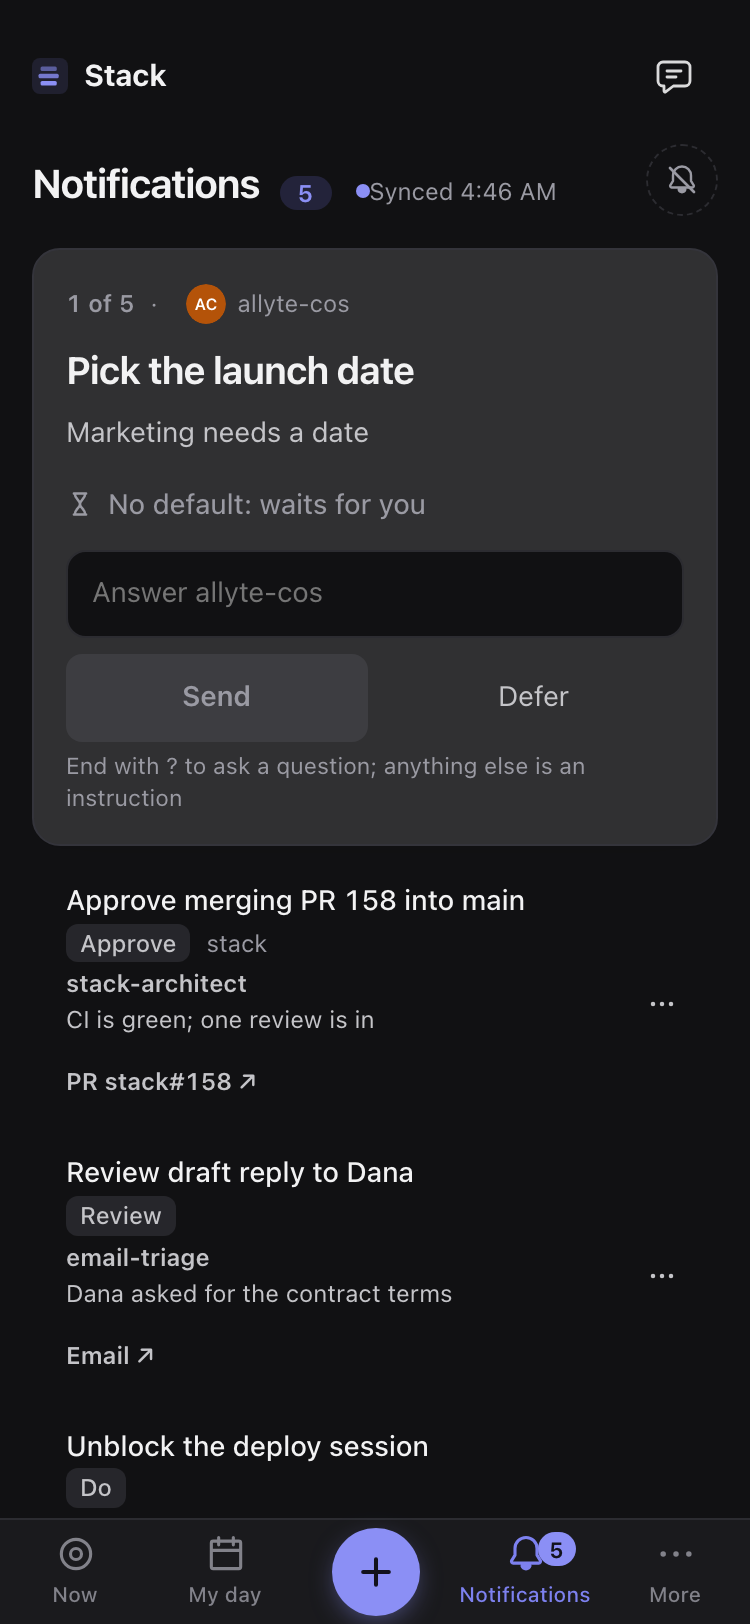
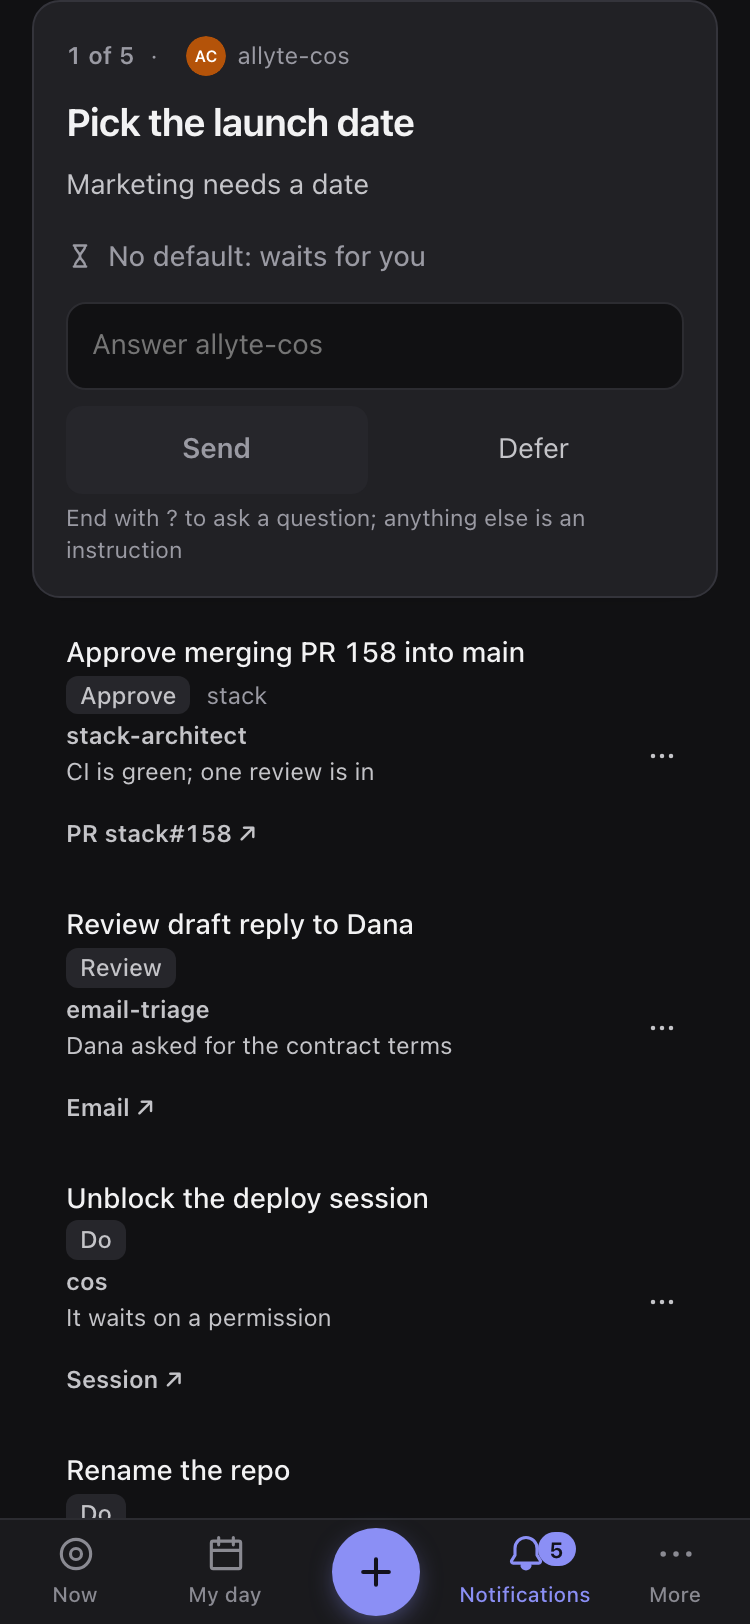
fix(notifications): Keep Ask for context off answer asks; name mail links exactly
Review round 1. An answer ask writes its reply under the task, so it
has no Ask for context. The selected notification has the action too.
Only mail web apps read as Email. A click on the who and why line
selects the row.

diff --git a/web/src/AsksView.tsx b/web/src/AsksView.tsx
@@ -6,7 +6,7 @@
 import { Avatar } from './AgentAvatar';
 import { nameBeside } from './avatar';
 import { useEffect, useRef, useState } from 'preact/hooks';
-import { actionsFor, CONTEXT_ASK, deadline, freshness, ifSilent, loudRow, rowActions, splitTop, type Action, type AskItem, type RowAction } from './asks';
+import { actionsFor, CONTEXT_ASK, needsContext, deadline, freshness, ifSilent, loudRow, rowActions, splitTop, type Action, type AskItem, type RowAction } from './asks';
 import { ActionMenu } from './ui/ActionMenu';
 import { SourceLink } from './ui/SourceLink';
 import { blockedHelp } from './notify';
@@ -85,11 +85,11 @@ function Row({ a, n, now, fresh, leaving, loud, onPick, onAct, onOpenTask }: { a
         {fresh && <span class="new" aria-label="New">New</span>}
         <span class="row-meta"><span class="verb">{verb ?? ''}</span>{a.by ? <DeadlineChip by={a.by} now={now} quiet={!loud} /> : <span class="dl empty" aria-hidden="true" />}<span class="proj">{a.project ?? ''}</span></span>
       </button>
-      <p class="ask-ctx">
+      <p class="ask-ctx" onClick={(e) => { if (!(e.target as HTMLElement).closest('a, button')) onPick(); }}>
         <span class="ask-who">{a.from}</span>
         <span class={`ask-ctx-why${a.why ? '' : ' none'}`}>{a.why ? <Md text={a.why} project={a.project} links={false} /> : 'No reason given'}</span>
         {a.source !== 'task' && <SourceLink href={a.link} />}
-        {taskRef && onOpenTask && <button type="button" class="ui-source ask-task-link" onClick={() => onOpenTask(taskRef)}>Task<span aria-hidden="true"> ↗</span></button>}
+        {taskRef && onOpenTask && <button type="button" class="ui-source ask-task-link" onClick={() => onOpenTask(taskRef)}>Task</button>}
       </p>
       {onAct && <ActionMenu name={`Actions for ${a.ask}`} items={rowActions(a).map((x) => ({ id: x.id, label: x.label, ...(x.action?.open && a.source !== 'task' && a.link ? { href: a.link } : { onSelect: () => onAct(x) }) }))} />}
     </li>
@@ -160,6 +160,8 @@ function Card({ a, n, total, asks, run, talk }: { a: AskItem; n: number; total: 
               <span class="grow" />
               <button type="button" class="btn quiet" onClick={() => asks.setPanel('defer')}>Defer<kbd aria-hidden="true">z</kbd></button>
               <button type="button" class="btn quiet" onClick={() => asks.setPanel(asks.panel === 'reply' ? 'none' : 'reply')} aria-expanded={asks.panel === 'reply'}>Reply<kbd aria-hidden="true">r</kbd></button>
+              {/* The selected notification has the row's actions too. @req FR:notifications/list.rowactions */}
+              {needsContext(a) && <button type="button" class="btn quiet" onClick={() => void asks.reply(a, CONTEXT_ASK)}>Ask for context</button>}
             </div>
           )
         )}

diff --git a/web/src/asks.ts b/web/src/asks.ts
@@ -120,7 +120,13 @@ export function actionsFor(a: Pick<AskItem, 'kind' | 'recommend' | 'options' | '
 export const actionable = (a: Pick<AskItem, 'kind' | 'recommend' | 'options' | 'link' | 'source'>): boolean => a.kind === 'answer' || actionsFor(a).length > 0;
 
 /** What `Ask for context` sends to the sender. It ends in `?`, so it goes as a question. @req FR:notifications/list.rowactions */
-export const CONTEXT_ASK = 'What is the context? Say why, link the source, and say what you need from me?';
+export const CONTEXT_ASK = 'What is the context: why is this needed, where is the source, and what do you need from me?';
+/**
+ * True when an ask gives no reason, no link and no detail, so the owner can only ask the sender for context.
+ * Never for a 🙋 row (the task is its context) or an `answer` ask (its reply is written under the task, not sent as a question).
+ * @req FR:notifications/list.rowactions
+ */
+export const needsContext = (a: Pick<AskItem, 'kind' | 'link' | 'source' | 'why' | 'detail'>): boolean => !a.why && !a.link && !a.detail && a.source !== 'task' && a.kind !== 'answer';
 /** One item of a row's actions menu: an action of the kind, a panel to open, or the context question. */
 export interface RowAction { id: string; label: string; action?: Action; panel?: 'reply' | 'defer'; context?: boolean }
 
@@ -132,7 +138,7 @@ export interface RowAction { id: string; label: string; action?: Action; panel?:
 export function rowActions(a: Pick<AskItem, 'kind' | 'recommend' | 'options' | 'link' | 'source' | 'why' | 'detail'>): RowAction[] {
   const out: RowAction[] = actionsFor(a).map((x) => (x.reply ? { id: x.id, label: x.label, panel: 'reply' as const } : { id: x.id, label: x.label, action: x }));
   out.push({ id: 'reply', label: a.kind === 'answer' ? 'Answer' : 'Reply', panel: 'reply' }, { id: 'defer', label: 'Defer', panel: 'defer' });
-  if (!a.why && !a.link && !a.detail && a.source !== 'task') out.push({ id: 'context', label: 'Ask for context', context: true });
+  if (needsContext(a)) out.push({ id: 'context', label: 'Ask for context', context: true });
   return out;
 }
 

diff --git a/web/e2e/notifications.spec.ts b/web/e2e/notifications.spec.ts
@@ -83,7 +83,7 @@ test.describe('Notifications: context and actions on every row', () => {
     { ...ask('top', 'Pick the launch date', 90), kind: 'answer', from: 'allyte-cos', why: 'Marketing needs a date' },
     { ...ask('pr', 'Approve merging PR 158 into main', 80), kind: 'approve', from: 'stack-architect', project: 'stack', why: 'CI is green; one review is in', link: 'https://github.com/Xerilium/stack/pull/158' },
     { ...ask('mail', 'Review draft reply to Dana', 70), kind: 'review', from: 'email-triage', why: 'Dana asked for the contract terms', link: 'https://outlook.office.com/mail/id/1' },
-    { ...ask('sess', 'Unblock the deploy session', 60), from: 'cos', why: 'It waits on a permission', link: 'claude://claude.ai/epitaxy/s1' },
+    { ...ask('sess', 'Unblock the deploy session', 60), from: 'cos', why: 'It waits on a permission', link: 'https://claude.ai/code/session_1' },
     { ...ask('bare', 'Rename the repo', 50) },
     { ...ask('dead', 'Pick one', 40), kind: 'decide' }, // no options: nothing to do
   ];
@@ -104,6 +104,11 @@ test.describe('Notifications: context and actions on every row', () => {
     await expect(row(page, 'sess').getByRole('link', { name: /Session/ })).toBeVisible();
     await expect(row(page, 'bare').locator('.ask-ctx-why')).toHaveText('No reason given');
     await expect(row(page, 'bare').locator('.ui-source')).toHaveCount(0);
+    // the selected notification (the details) has Ask for context too, when it has none; an answer ask never has it
+    await expect(page.locator('.ask-card').getByRole('button', { name: 'Ask for context' })).toHaveCount(0);
+    await row(page, 'bare').locator('.ask-ctx-why').click();
+    await expect(row(page, 'bare').locator('.ask-card').getByRole('button', { name: 'Ask for context' })).toBeVisible();
+    await row(page, 'top').locator('.ask-row').click();
     expect(await page.evaluate(() => document.documentElement.scrollWidth <= window.innerWidth)).toBe(true);
     expect((await axe(page)).violations).toEqual([]);
     for (const scheme of ['light', 'dark'] as const) {

diff --git a/web/src/ui/SourceLink.tsx b/web/src/ui/SourceLink.tsx
@@ -7,7 +7,8 @@ import './ui.css';
 export type SourceKind = 'pr' | 'issue' | 'session' | 'email' | 'site';
 export interface Source { kind: SourceKind; /** The words on the link, for example `PR stack#158`. */ label: string }
 
-const MAIL = /(^|\.)(outlook|office|office365|live|gmail|mail\.google|proton|fastmail)\./;
+/** Mail web apps only: a suite's other sites (office.com, onedrive.live.com) are not mail. */
+const MAIL = /^(outlook\.(office|office365|live)\.com|mail\.google\.com|mail\.proton\.me|app\.fastmail\.com)$/;
 
 /** Name a link by its source. Returns null for text that is not a link. Pure. */
 export function sourceOf(href: string | undefined): Source | null {
@@ -18,7 +19,7 @@ export function sourceOf(href: string | undefined): Source | null {
   if (u.protocol !== 'https:' && u.protocol !== 'http:') return null;
   const gh = u.hostname === 'github.com' ? /^\/[^/]+\/([^/]+)\/(pull|issues)\/(\d+)/.exec(u.pathname) : null;
   if (gh) return gh[2] === 'pull' ? { kind: 'pr', label: `PR ${gh[1]}#${gh[3]}` } : { kind: 'issue', label: `Issue ${gh[1]}#${gh[3]}` };
-  if (MAIL.test(`${u.hostname}.`)) return { kind: 'email', label: 'Email' };
+  if (MAIL.test(u.hostname)) return { kind: 'email', label: 'Email' };
   return { kind: 'site', label: u.hostname.replace(/^www\./, '') };
 }
 

diff --git a/web/src/asks.css b/web/src/asks.css
@@ -187,11 +187,12 @@ a.btn.primary { color: #fff; }
 .ask-li-row > .ask-row { grid-area: row; min-height: 36px; padding-bottom: 2px; }
 .ask-li-row > .ui-more { grid-area: menu; margin-right: 10px; }
 .ask-li-row:has(.ui-menu) { z-index: 30; }
-.ask-ctx { grid-area: ctx; margin: 0; padding: 0 22px 8px; display: flex; flex-wrap: wrap; align-items: center; gap: 0 10px; min-width: 0; font-size: 12px; line-height: 18px; color: var(--ink2); }
+.ask-ctx { grid-area: ctx; cursor: pointer; margin: 0; padding: 0 22px 8px; display: flex; flex-wrap: wrap; align-items: center; gap: 0 10px; min-width: 0; font-size: 12px; line-height: 18px; color: var(--ink2); }
 .ask-who { flex: none; font-weight: 600; }
 .ask-ctx-why { flex: 0 1 auto; min-width: 0; overflow: hidden; text-overflow: ellipsis; white-space: nowrap; }
 .ask-ctx-why.none { color: var(--muted); }
 .ask-task-link { border: 0; background: none; padding: 0; cursor: pointer; font-family: inherit; }
+@media (hover: none) { .ask-li-row > .ask-row { min-height: 44px; } }
 @media (max-width: 719px) {
   .ask-li-row > .ask-row { min-height: 44px; }
   .ask-ctx { padding: 0 17px 6px; }

diff --git a/web/tests/ui-kit.test.tsx b/web/tests/ui-kit.test.tsx
@@ -40,6 +40,8 @@ describe('SourceLink', () => {
     expect(sourceOf('https://claude.ai/code/session_1')).toEqual({ kind: 'session', label: 'Session' });
     expect(sourceOf('https://outlook.office.com/mail/id/1')).toEqual({ kind: 'email', label: 'Email' });
     expect(sourceOf('mailto:a@example.test')).toEqual({ kind: 'email', label: 'Email' });
+    expect(sourceOf('https://mail.google.com/mail/u/0/#inbox/1')).toEqual({ kind: 'email', label: 'Email' });
+    for (const [href, site] of [['https://www.office.com/launch', 'office.com'], ['https://onedrive.live.com/x', 'onedrive.live.com'], ['https://drive.proton.me/u/0', 'drive.proton.me']]) expect(sourceOf(href)).toEqual({ kind: 'site', label: site });
     expect(sourceOf('https://www.npmjs.com/settings')).toEqual({ kind: 'site', label: 'npmjs.com' });
     expect(sourceOf('https://github.com/Xerilium/stack')).toEqual({ kind: 'site', label: 'github.com' });
     for (const bad of [undefined, '', 'not a link', 'javascript:alert(1)']) expect(sourceOf(bad)).toBeNull();

diff --git a/web/tests/asks.test.ts b/web/tests/asks.test.ts
@@ -186,6 +186,7 @@ describe('row actions', () => {
     expect(labels({ kind: 'go-do' })).toEqual(['Done', 'Reply', 'Defer', 'Ask for context']);
     expect(rowActions(ask({ kind: 'go-do' })).at(-1)).toMatchObject({ id: 'context', context: true });
     expect(CONTEXT_ASK.trim().endsWith('?')).toBe(true); // goes to the agent as a question
+    expect(labels({ kind: 'answer' })).toEqual(['Answer', 'Defer']); // its reply is written under the task, never sent as a question
     expect(labels({ kind: 'go-do', why: 'w' })).not.toContain('Ask for context');
     expect(labels({ kind: 'approve', source: 'task', ref: 'a:1', recommend: 'Ship it' })).not.toContain('Ask for context'); // a task row is its own context
   });

diff --git a/.xe/features/notifications/spec.md b/.xe/features/notifications/spec.md
@@ -25,10 +25,10 @@ This feature ships the nav and page split of `FR:product-reset/ia.nav` and `FR:p
 - **FR:list.what** (P1): The page shows only things that need the owner to act, as one ranked list: agent asks, Chief of Staff escalations, and 🙋 decision rows (`FR:web-shell/state.needs`). An expired sign-in (`FR:web-shell/state.live`, state `signin`) shows first as the notification `Sign-in expired` with `Sign in`
 - **FR:list.not** (P1): The page has no Priorities block and no Sessions or Archive candidates lists
 - **FR:list.actions** (P1): Each notification keeps its direct actions, keys, defer, reply, and Undo (`FR:ask-queue/web.actions`)
-- **FR:list.context** (P1): Every notification, selected or not, shows who sent it, what it asks, and why. A notification with no reason says `No reason given`
-- **FR:list.source** (P1): A notification with a link shows it as a source link (`FR:ui-kit/source`): `PR stack#158`, `Issue stack#152`, `Session`, `Email`, or the site name. The link opens in a new tab and does not select the row. A 🙋 row shows `Task`, which opens the task
-- **FR:list.rowactions** (P1): Every row that is not selected has an actions menu (`FR:ui-kit/menu`, named `Actions for {ask}`) with the actions for its state: the actions of its kind (`FR:ask-queue/web.actions`: for example Approve, Reject, Open), then Reply (`Answer` for an `answer` ask) and Defer. An ask with no reason, no link and no detail also has `Ask for context`, which asks the sender. An action selects the row, then runs. The selected notification is the details: it shows the same actions as buttons with their keys
-- **FR:list.drop** (P1): A notification with no possible action is not shown and not counted: an open ask that is not an `answer` ask and whose kind gives no action (for example a `decide` ask with no options)
+- **FR:list.context** (P1): Every notification, selected or not, shows who sent it, what it asks, and its reason when it has one. A row that is not selected and has no reason says `No reason given`. A click on the who and why line selects the row
+- **FR:list.source** (P1): A notification with a link shows it as a source link (`FR:ui-kit/source`): `PR stack#158`, `Issue stack#152`, `Session`, `Email`, or the site name. The link opens in a new tab and does not select the row. An ask about a task (a 🙋 row, or an ask with a task row) shows `Task`, which opens the task in the app
+- **FR:list.rowactions** (P1): Every row that is not selected has an actions menu (`FR:ui-kit/menu`, named `Actions for {ask}`) with the actions for its state: the actions of its kind (`FR:ask-queue/web.actions`: for example Approve, Reject, Open), then Reply (`Answer` for an `answer` ask) and Defer. An ask with no reason, no link and no detail also has `Ask for context`, which sends the sender a question; a 🙋 row and an `answer` ask never have it. An action selects the row, then runs. The selected notification is the details: it shows the same actions as buttons with their keys, `Ask for context` included
+- **FR:list.drop** (P1): A notification with no possible action is not shown and not counted: an open ask that is not an `answer` ask and whose kind gives no action (for example a `decide` ask with no options; Stack refuses such an ask when an agent writes it, so this covers files changed by hand)
 - **FR:list.empty** (P1): With nothing open: `You're all caught up.` and one muted line that says what was checked. No red
 - **FR:list.words** (P1): Owner-facing text that named Needs you names Notifications (`{n} more in Notifications`, `Open in Notifications`)
 

diff --git a/.xe/features/design-decisions.md b/.xe/features/design-decisions.md
@@ -316,6 +316,7 @@
 
 **Trade-offs**: The row height comes from the shortest effort: a 12-minute task (🔹) must keep a 24 px target (44 px on touch), so 30 minutes is 60 px (112 px on touch). A 30-minute task then also keeps its one-tap actions at 44 px (`FR:home/myday.actions`). A phone shows about 3 hours. A block under 30 minutes is one line (Done and open). Rejected: a least height above the true length (the next block covers it, or sits beside it at half width; both tested, both poor at 375 px). The grid starts at now, not at wake, so there are no dead rows and no scroll jump. Rejected: snap blocks to rows (a 20-minute email block would push every later block off its time); a 56 px touch row with the row actions only in the task detail.
 
+
 ## Notifications: context and actions on every row
 
 **Decision**: Every notification row shows who sent it, why, and a source link (`SourceLink`, `FR:ui-kit/source`), and has an actions menu with the actions for its state. The selected notification stays the details, with the same actions as buttons and keys. An ask with no possible action is not shown and not counted.
@@ -325,3 +326,13 @@
 **Why**: The owner said no notification was actionable and none had context: a row showed only a title, a verb and a project.
 
 **Trade-offs**: The drop rule uses only what the ask says (its kind, options and link), so a go-do ask with no reason stays and gets `Ask for context`; Stack cannot know that its source is closed. Rejected: one button per action on every row (too much chrome at 375 px); a rewrite on `SelectCard` and `SplitView` (large; `product-reset` Stage 9 owns `AskCard`).
+
+## Now: priorities tables replace the ask cards
+
+**Decision**: Now shows the priorities report (QM, Now top 3, PRs, Today, Next 3 days) in place of Waiting on you. Project rows come only from tiered tasks in `tasks/*.md` (one store; the report only reads); a priority with none shows a gap. Asks stay in Needs you. Time windows, labels, fixed actions and `perProject` live in `pris.json`.
+
+**Date**: 2026-11-18
+
+**Why**: The owner multitasks across projects and wants one plain view of what each project needs from him, and which PRs he can promote in a short review. Spec: `.xe/features/priorities-tables/spec.md`.
+
+**Rejected**: Cards, a ledger or a rail item (PR 182 mockups): too much chrome.
